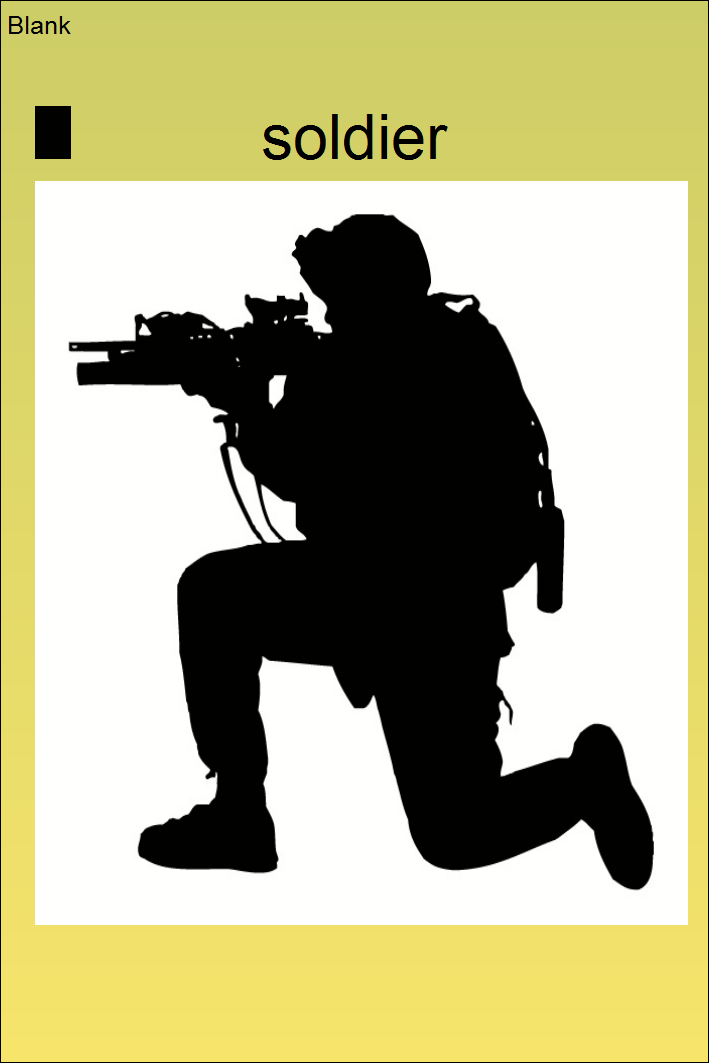
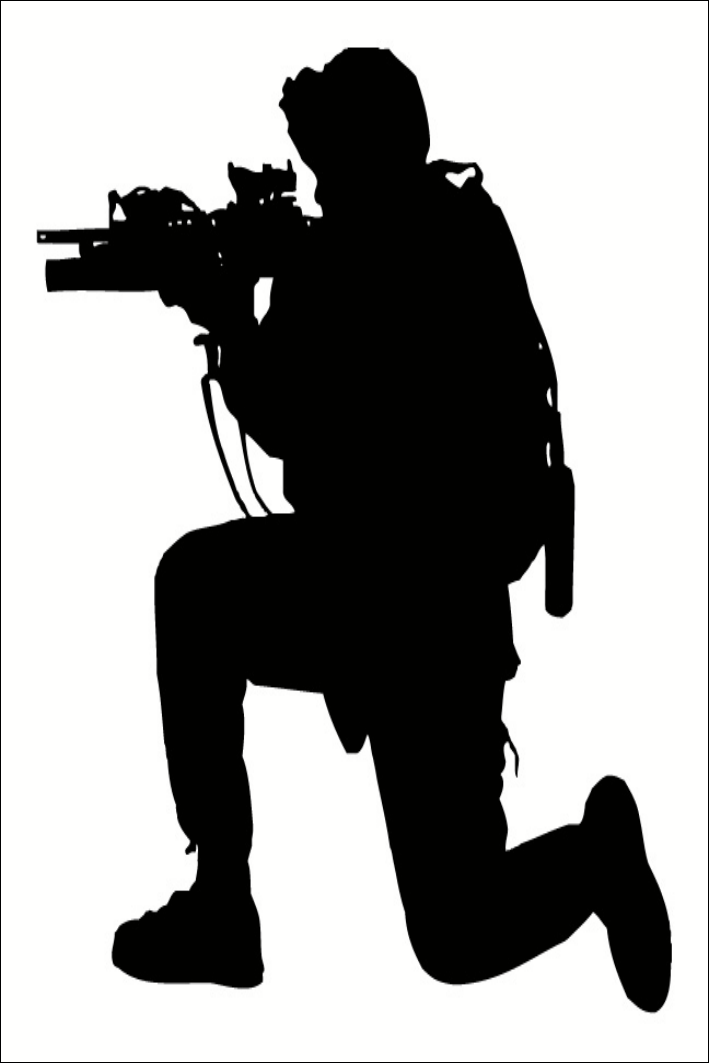
Better card movement & background image

diff --git a/kivyDisplay.py b/kivyDisplay.py
@@ -1,6 +1,9 @@
 import sys
 from threading import Thread
 import threading
+import math
+from time import sleep
+
 from cards import *
 from engine import *
 
@@ -15,7 +18,6 @@ from kivy.graphics import Color
 from kivy.graphics import Rectangle
 from kivy.graphics import BorderImage
 from kivy.graphics import Callback
-from time import sleep
 from kivy.config import Config
 from kivy.properties import ListProperty
 from kivy.core.window import Window
@@ -177,6 +179,17 @@ class KivyCard(Card):
             parent.remove_widget(self.destPile.layout)
             parent.add_widget(self.destPile.layout)
 
+        xdist = abs(self.scatter.pos[0]-x)
+        ydist = abs(self.scatter.pos[1]-y)
+
+        if xdist == 0:  #avoid div by zero
+            self.xmove=0
+            self.ymove = 2 * Window.height / 100
+        else:
+            theta = math.atan(ydist/xdist)
+            self.xmove = 2 * math.cos(theta) * Window.height / 100
+            self.ymove = 2 * math.sin(theta) * Window.height / 100
+
         if not self.cb:
             with self.scatter.canvas:
                 self.cb = Callback(self.destCallback)
@@ -189,17 +202,17 @@ class KivyCard(Card):
 
     def destCallback(self, instr):
         if self.has_dest:
-            increment=10
+            #increment=10
             posx=self.scatter.pos[0]
             posy=self.scatter.pos[1]
             if posx < self.dest[0]:
-                posx = min(posx+increment,self.dest[0])
+                posx = min(posx+self.xmove,self.dest[0])
             elif posx > self.dest[0]:
-                posx = max(posx-increment,self.dest[0])    
+                posx = max(posx-self.xmove,self.dest[0])    
             if posy < self.dest[1]:
-                posy = min(posy+increment,self.dest[1])
+                posy = min(posy+self.ymove,self.dest[1])
             elif posy > self.dest[1]:
-                posy = max(posy-increment,self.dest[1])      
+                posy = max(posy-self.ymove,self.dest[1])      
             self.scatter.pos=(posx,posy)
             if posx == self.dest[0] and posy == self.dest[1]:
                 self.has_dest=False
@@ -361,7 +374,13 @@ class MyApp(App):
 
 
         self.relativeLayout = RelativeLayout()
+        self.relativeLayout.size_hint=(None, None)
+        #self.relativeLayout.pos_hint={'x':0,'y':0}
 
+        background = Image(source="background.jpg", allow_stretch=True, keep_ratio=True)
+        background.size= (Window.height*background.image_ratio, Window.height)
+        self.relativeLayout.add_widget(background)
+        
         self.tableau=0
         
         CardList.setDisplay(self)
